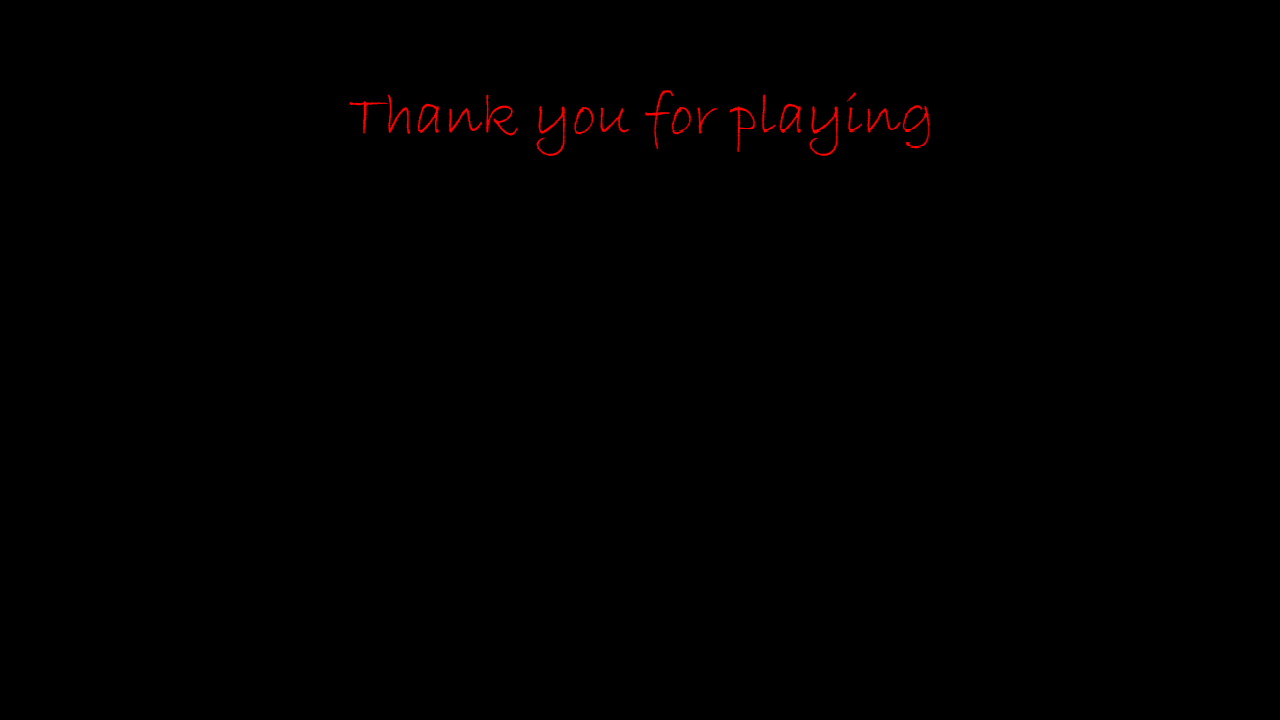
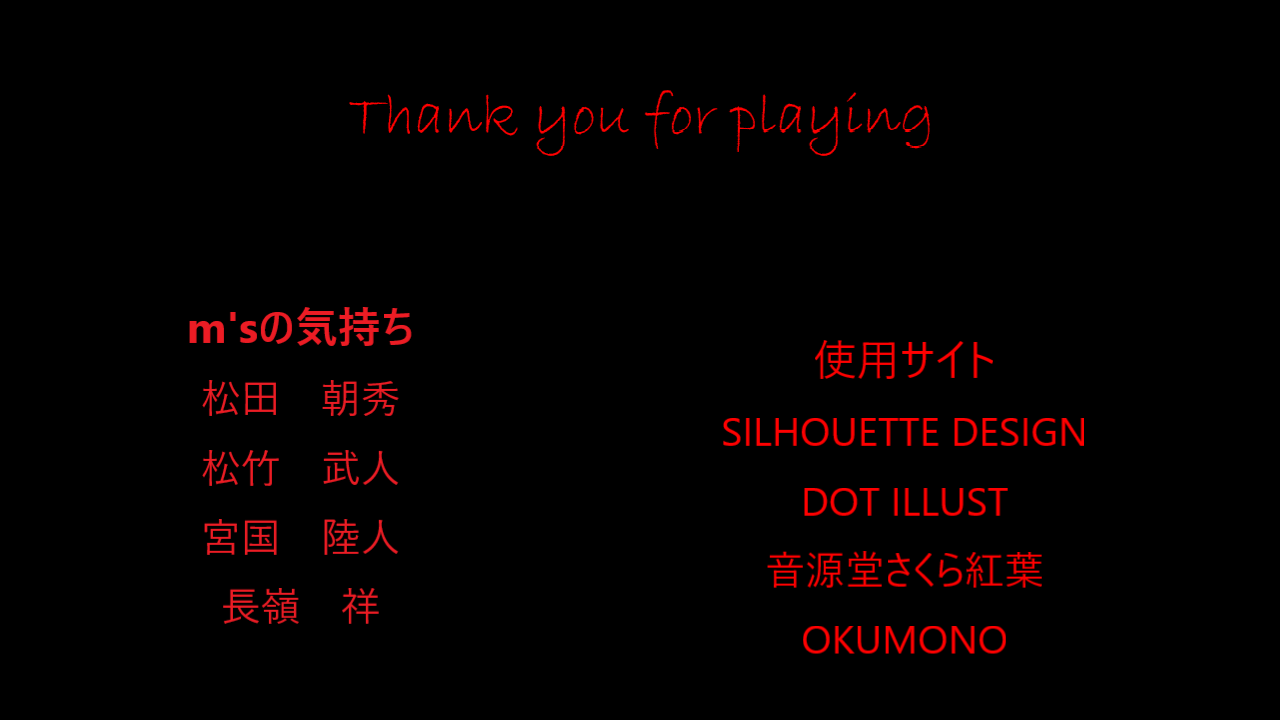
エンド画像挿入

diff --git a/RousianRoulette/EndScene.cpp b/RousianRoulette/EndScene.cpp
@@ -5,12 +5,12 @@
 
 EndScene::EndScene()
 {
-
+	Endimage = LoadGraph("Resources/images/EndScene.png");
 }
 
 EndScene::~EndScene()
 {
-
+	DeleteGraph(Endimage);
 }
 
 AbstractScene* EndScene::Update()
@@ -24,7 +24,7 @@ AbstractScene* EndScene::Update()
 
 void EndScene::Draw() const
 {
-	DrawGraph(0, 0, Endimage, FALSE);
+	//DrawGraph(0, 0, Endimage, FALSE);
 	SetFontSize(50);
 	//DrawString(330, 50, "END", 0x000000);
 	DrawString(100, 50, "Thank you ", 0xffffff);
@@ -41,5 +41,7 @@ void EndScene::Draw() const
 	SetFontSize(24);
 	DrawString(800, 480, "SILHOUETTE DESIGN", 0xffffff);
 	DrawString(800, 510, "DOT ILLUST", 0xffffff);
+
+	DrawGraph(0, 0, Endimage, FALSE);
 
 }
